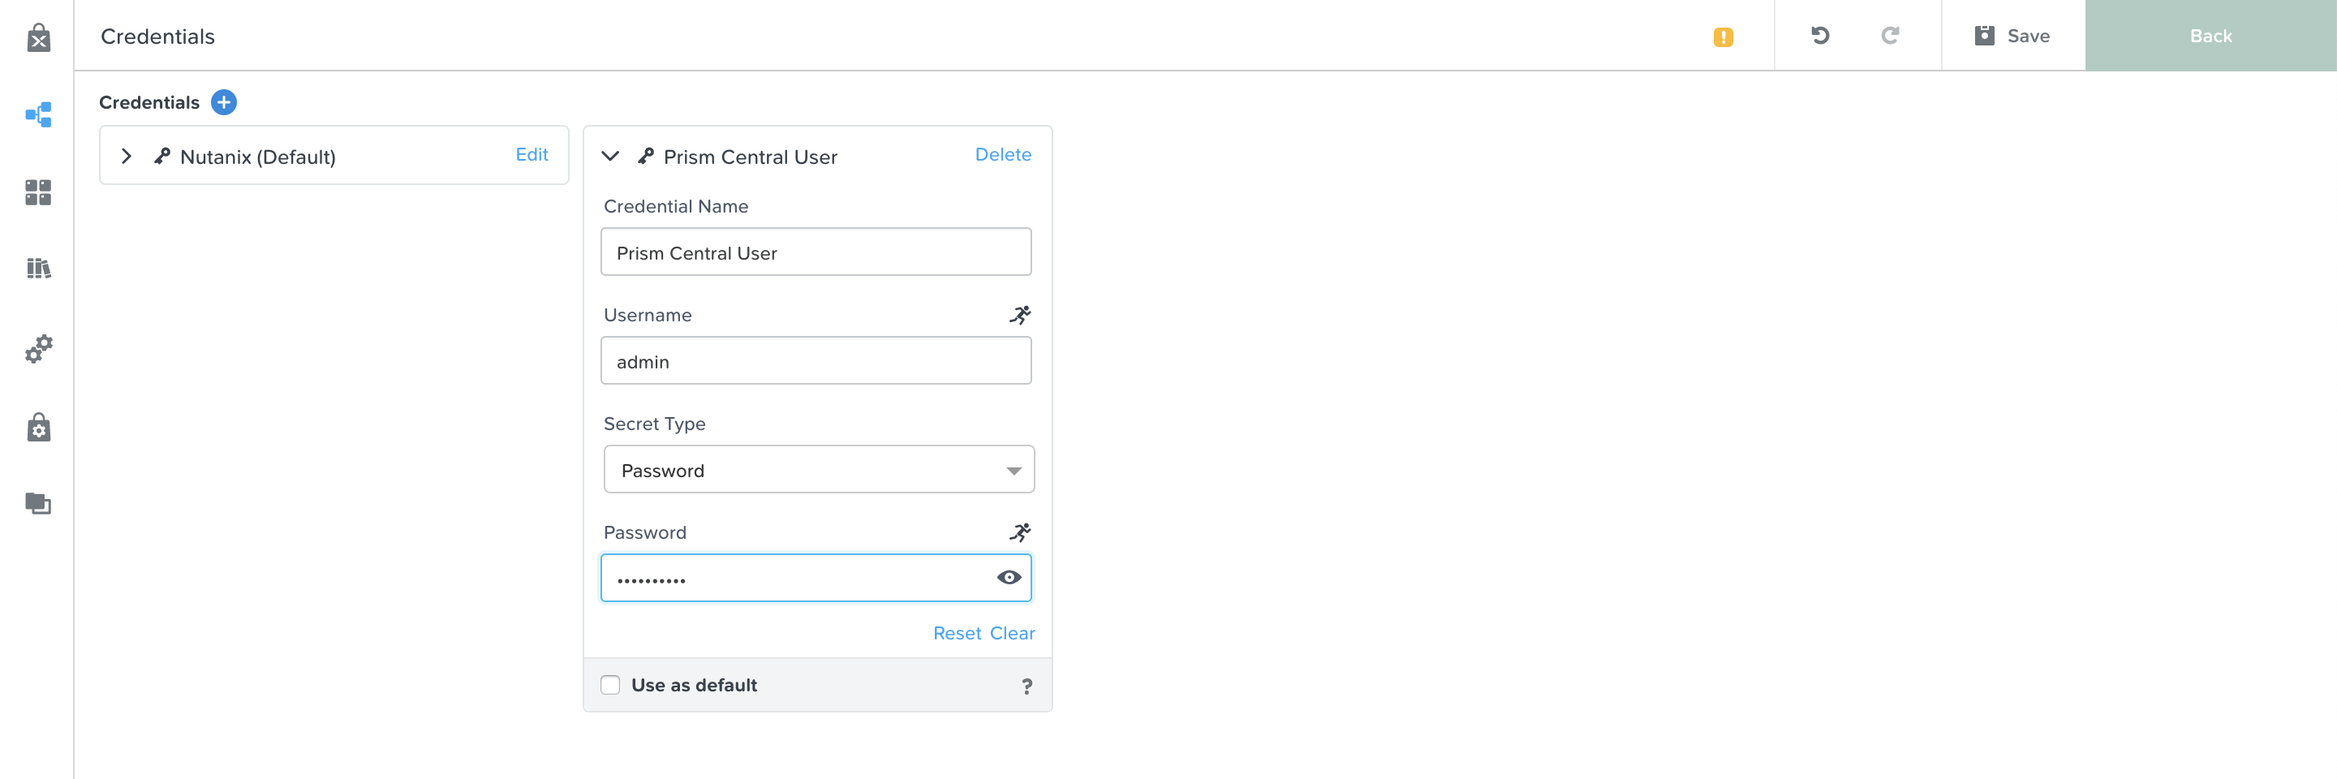
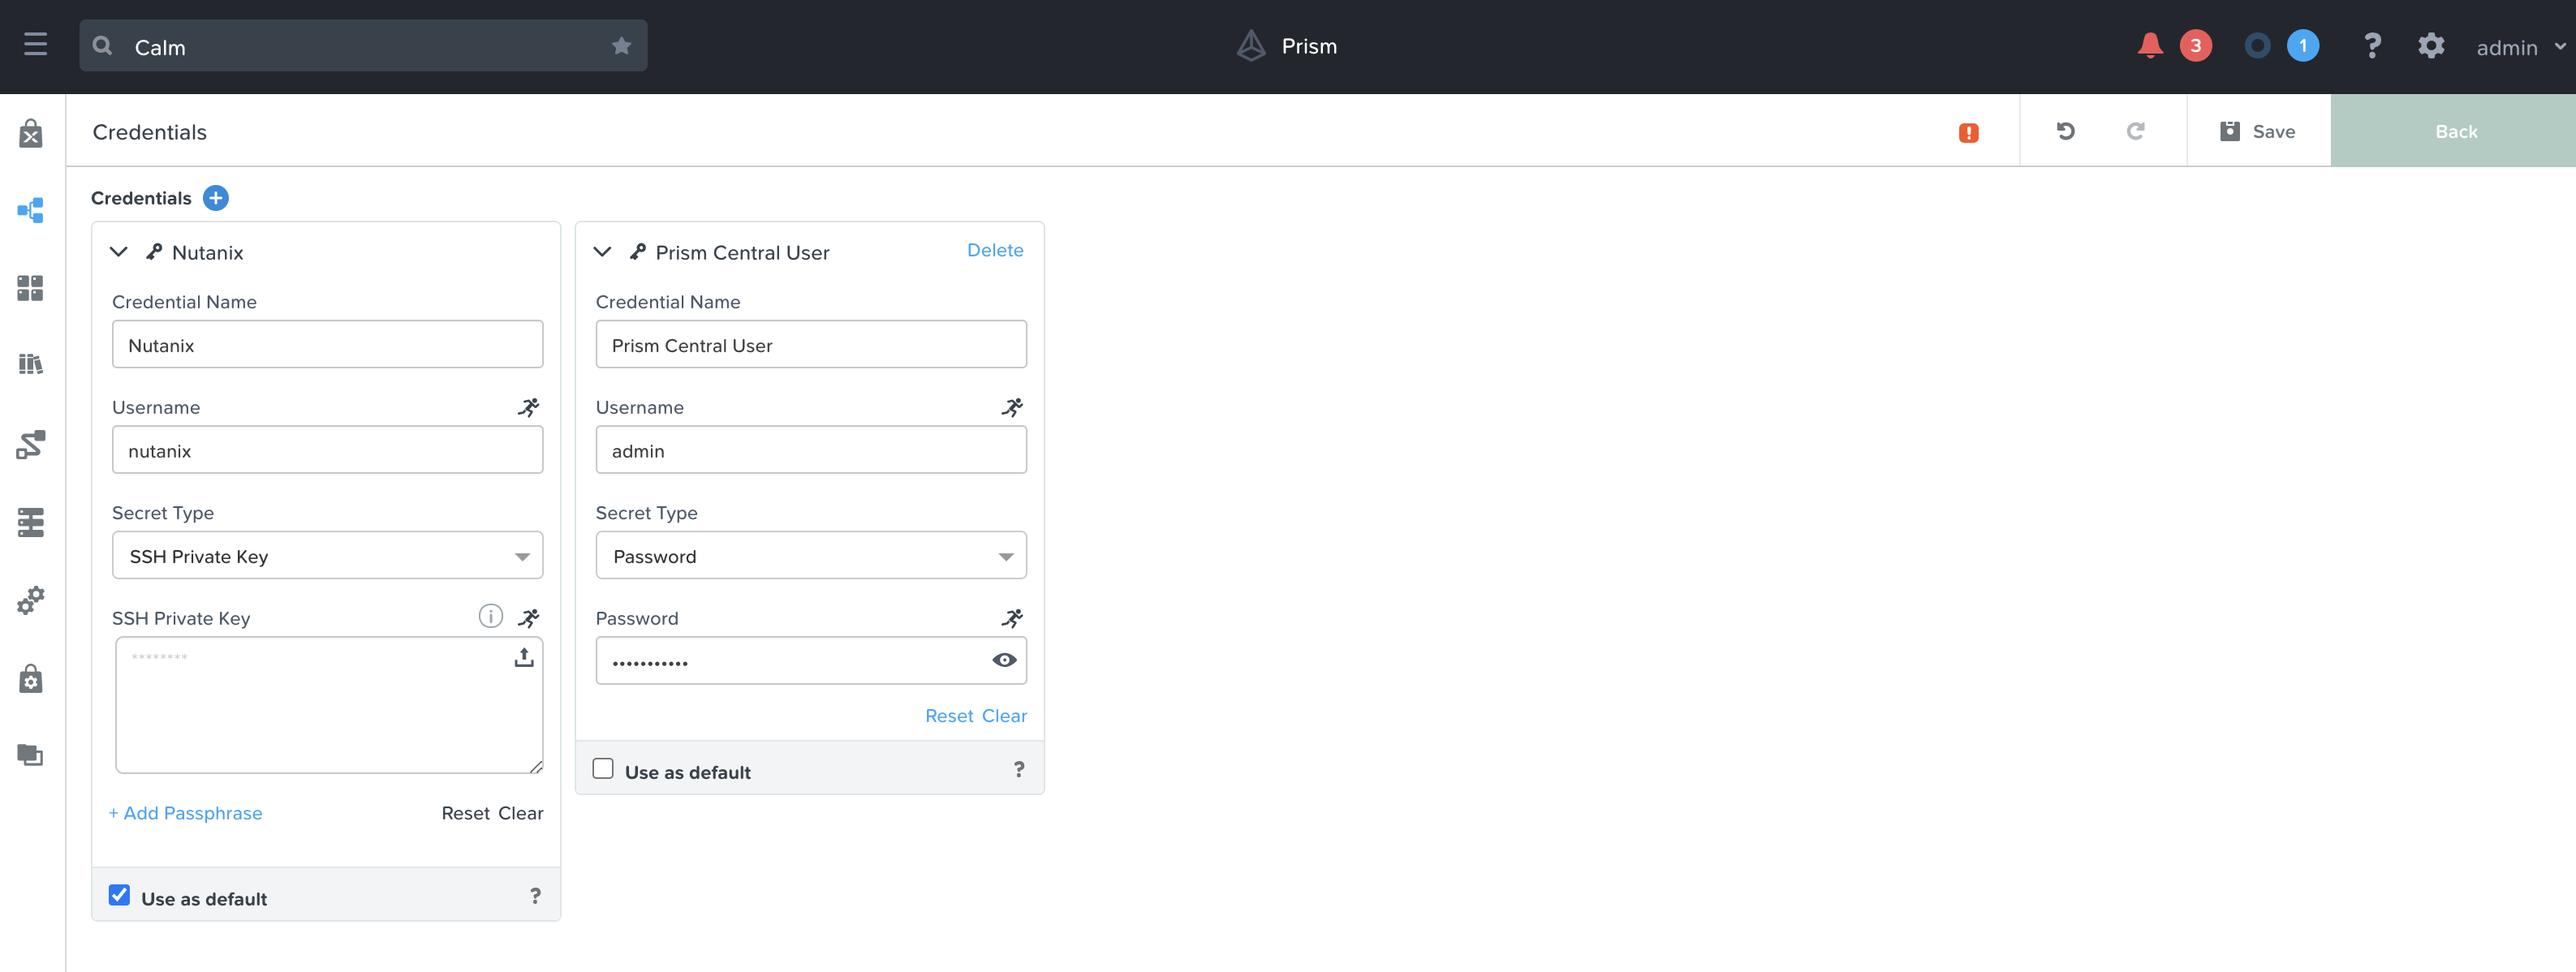
verified

diff --git a/00_command.md b/00_command.md
@@ -191,7 +191,7 @@ Password: nutanix/4u
 
 Services:
 
-(Option, you could choose image you have download in Prerequisites chapter before)
+(Option, you could choose image you have download in Chapter Prerequisites)
 Developer Workstation --> VM --> DISKS (1) --> Image --> Select image you created
 Jenkins Slave --> VM --> DISKS (1) --> Image --> Select image you created
 Jenkins Master --> VM --> DISKS (1) --> Image --> Select image you created
@@ -206,10 +206,20 @@ Jenkins Master --> VM --> NETWORK ADAPTERS (NICS) (1) --> NIC1 --> Select Karbon
 Docker Registry --> VM --> NETWORK ADAPTERS (NICS) (1) --> NIC1 --> Select Karbon-Network
 Artifactory --> VM --> NETWORK ADAPTERS (NICS) (1) --> NIC1 --> Select Karbon-Network
 Gitolite --> VM --> NETWORK ADAPTERS (NICS) (1) --> NIC1 --> Select Karbon-Network
+
+Credentials:
+
+- Prism Central User --> Fill out your Prism Central admin user password
+- Docker Registry Credential --> password --> nutanix/4u
+- Jenkins Key --> using private key in Chapter Prerequisites
+- Nutanix (Default) --> using private key in Chapter Prerequisites
+
+If you use private key yourself, remeber to update public_key in Application Profile Default
 ```
 
 ![BaseUpload](./images/BaseUpload.png)
 ![BaseServices](./images/BaseServices.png)
+![BaseCredentials](./images/BaseCredentials2.png)
 
 ### 2-3.[CALM] Launch cicd-base application
 
@@ -222,13 +232,10 @@ Profile configuration:
 - Karbon Cluster Name: Your Karbon cluster name
 - Prism Central IP Address: Your PC address
 - yourname: [YOURNAME]
-
-Credentials:
-- Prism Central User --> Fill out your Prism Central admin user password
 ```
 
 ![BaseProfile](./images/BaseProfile.png)
-![BaseCredentials](./images/BaseCredentials.png)
+
 
 ```text
 Note: 20-30mins to boot up
@@ -360,10 +367,15 @@ Pod --> NginxPod --> Deployment
 Account: [Karbon provider name]
 Pod --> NodeJSPod --> Deployment
 Account: [Karbon provider name]
+
+Credentials
+- Nutanix (Default) - using same private key (got from Chapter Prerequisites or yourself)
+- Prism Central User --> Fill out your Prism Central admin user password
 ```
 
 ![AppNginxk8s](./images/AppNginxk8s.png)
 ![AppNodejsk8s](./images/AppNodejsk8s.png)
+![AppCredentials](./images/AppCredentials.png)
 
 ```text
 Application Profile: Default --> Variables:
@@ -372,18 +384,12 @@ pc_instance_ip: Prism Central IP Address
 karbon_cluster_name: Your Karbon cluster name
 nodejs_ip: IP address of NODEJS address fetched at 3-1
 yourname: [YOURNAME]
+
+Push Save button
+
 ```
 
 ![AppVariables](./images/AppVariables.png)
-
-```text
-Credentials:
-Prism Central User --> Fill out your Prism Central admin user password
-
-Push Save button
-```
-
-![AppCredentials](./images/AppCredentials.png)
 
 ```shell
 Note: You can ignore the 15 Warnings.
